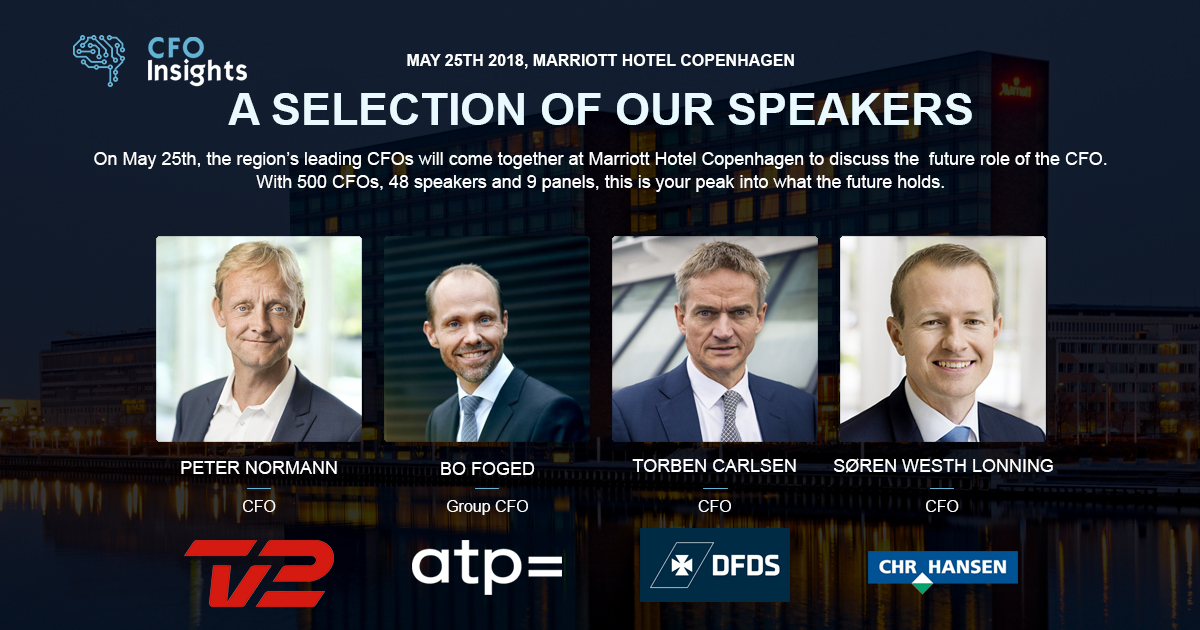
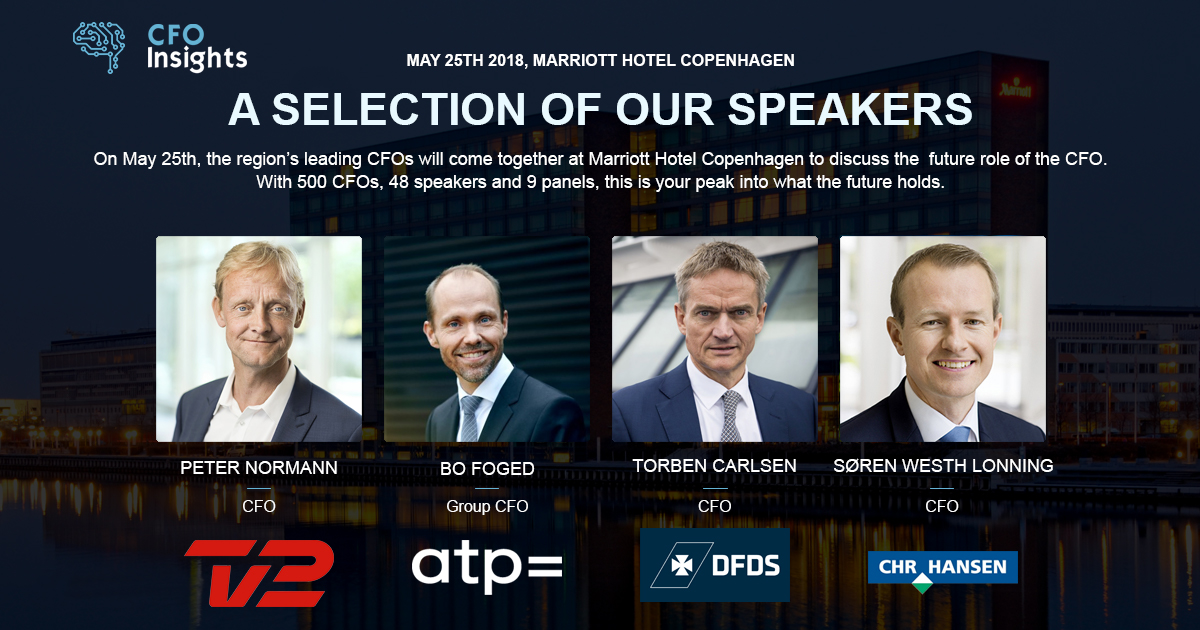
fix share img

Changed region(s): [[0.0617, 0.0302, 0.2158, 0.1508]]

diff --git a/project/templates/bases/base.html b/project/templates/bases/base.html
@@ -21,7 +21,7 @@
   <meta name="theme-color" content="#ffffff">
 
 <meta property="og:image:width" content="1200" />
-<meta property="og:image:height" content="627" />
+<meta property="og:image:height" content="630" />
 
 {% block ogtitle %}
 <meta property='og:title' content="CFO Insights 2018 May 25th at Hotel Marriott, Copenhagen"/>
